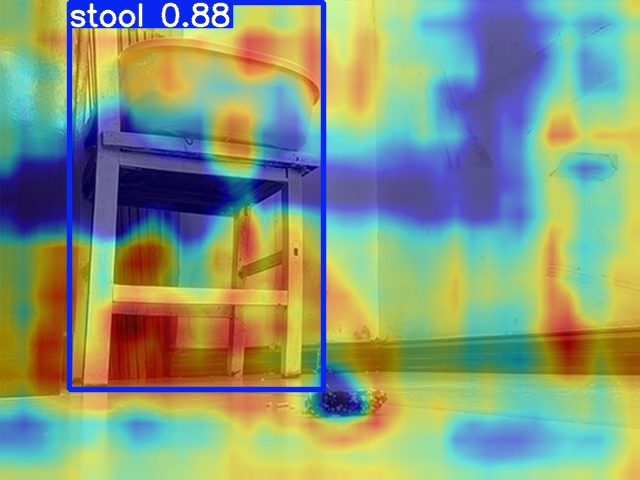
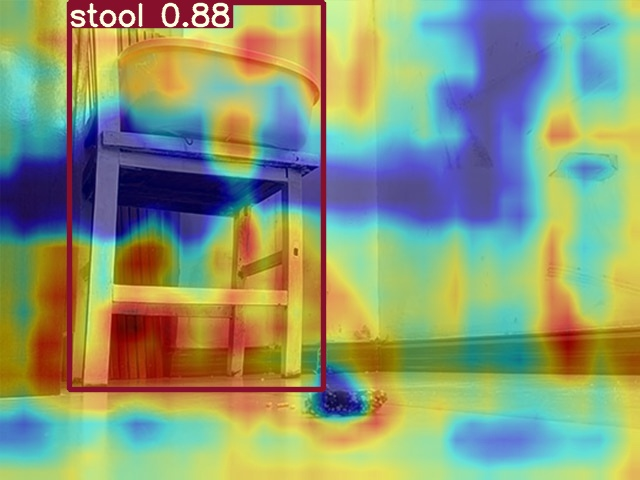
删除Box类

Changed region(s): [[0.0938, 0.0, 0.5312, 0.8438]]

diff --git a/models/yolo_v5_object_detector.py b/models/yolo_v5_object_detector.py
@@ -1,5 +1,4 @@
 import numpy as np
-from deep_utils import Box
 import torch
 from models.experimental import attempt_load
 from utils.general import xywh2xyxy
@@ -158,10 +157,8 @@ class YOLOV5TorchObjectDetector(nn.Module):
         for i, det in enumerate(prediction):  # detections per image
             if len(det):
                 for *xyxy, conf, cls in det:
-                    bbox = Box.box2box(xyxy,
-                                       in_source=Box.BoxSource.Torch,
-                                       to_source=Box.BoxSource.Numpy,
-                                       return_int=True)
+                    # 返回整数
+                    bbox = [int(b) for b in xyxy]
                     self.boxes[i].append(bbox)
                     self.confidences[i].append(round(conf.item(), 2))
                     cls = int(cls.item())

diff --git a/Main_Demo.py b/Main_Demo.py
@@ -49,7 +49,7 @@ def plot_one_box(x, img, color=None, label=None, line_thickness=3):
     # Plots one bounding box on image img
     tl = line_thickness or round(0.002 * (img.shape[0] + img.shape[1]) / 2) + 1  # line/font thickness
     color = color or [random.randint(0, 255) for _ in range(3)]
-    c1, c2 = (int(x[1]), int(x[0])), (int(x[3]), int(x[2]))
+    c1, c2 = (int(x[0]), int(x[1])), (int(x[2]), int(x[3]))
     cv2.rectangle(img, c1, c2, color, thickness=tl, lineType=cv2.LINE_AA)
     if label:
         tf = max(tl - 1, 1)  # font thickness
